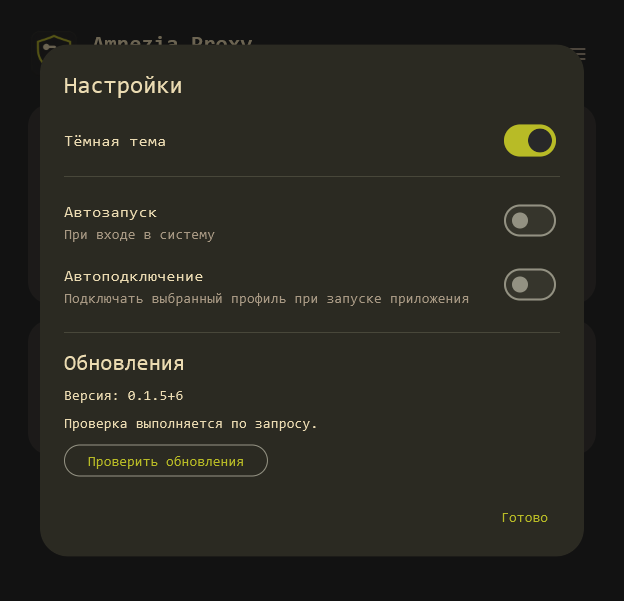
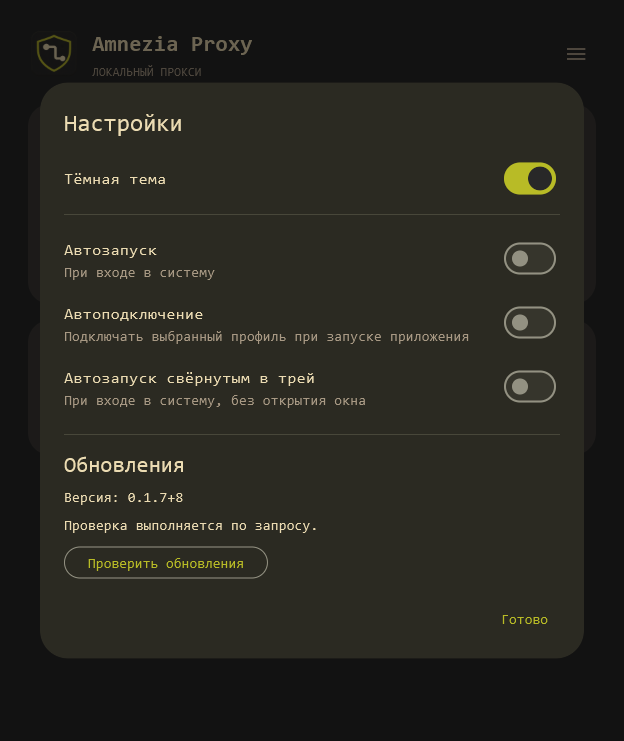
Проверить обновление автозапуска и обновить скриншот настроек

diff --git a/apps/desktop/lib/settings/startup_cubit.dart b/apps/desktop/lib/settings/startup_cubit.dart
@@ -67,7 +67,7 @@ class StartupCubit extends Cubit<StartupOptions> {
     _publish(busy: true);
     try {
       await _writeStartInTray(enabled);
-      _publish(autostart: enabled ? true : null, startInTray: enabled);
+      _publish(startInTray: enabled);
     } catch (_) {
       _publish(
         message: 'Не удалось настроить автозапуск в трей. Повторите попытку.',
@@ -88,6 +88,7 @@ class StartupCubit extends Cubit<StartupOptions> {
 
   Future<void> _enableAutostart() async {
     if (!await _command('enable')) throw const FormatException();
+    _publish(autostart: true, busy: true);
   }
 
   Future<void> setAutostart(bool enabled) async {

diff --git a/apps/desktop/tool/readme_main.dart b/apps/desktop/tool/readme_main.dart
@@ -26,7 +26,13 @@ class _DemoVault implements ProfileVault {
 }
 
 Future<void> main() async {
-  enableFlutterDriverExtension();
+  enableFlutterDriverExtension(
+    handler: (message) async {
+      final height = message == 'settings-window' ? 780.0 : 640.0;
+      await windowManager.setSize(Size(640, height));
+      return 'ok';
+    },
+  );
   // Изолируем демонстрационный запуск от настроек установленного приложения.
   // ignore: invalid_use_of_visible_for_testing_member
   SharedPreferences.setMockInitialValues({});

diff --git a/apps/desktop/tool/capture_readme.dart b/apps/desktop/tool/capture_readme.dart
@@ -51,9 +51,11 @@ Future<void> main(List<String> args) async {
     );
     await shot('09-profile-checked');
     await tap(find.text('Готово'));
+    await driver.requestData('settings-window');
     await section('Настройки');
     await shot('08-settings');
     await tap(find.text('Готово'));
+    await driver.requestData('default-window');
   } finally {
     await driver.close();
   }

diff --git a/engine/internal/autostart/autostart_windows_test.go b/engine/internal/autostart/autostart_windows_test.go
@@ -4,6 +4,7 @@ import (
 	"golang.org/x/sys/windows/registry"
 	"os"
 	"path/filepath"
+	"strings"
 	"testing"
 )
 
@@ -24,5 +25,23 @@ func TestWindowsRunKey(t *testing.T) {
 	}
 	if _, err := Apply("enable", "relative.exe"); err == nil {
 		t.Fatal("принят относительный путь")
+	}
+	key, _, err := registry.CreateKey(registry.CURRENT_USER, path, registry.ALL_ACCESS)
+	if err != nil {
+		t.Fatal(err)
+	}
+	defer key.Close()
+	if err := key.SetStringValue(valueName, `"`+binary+`"`); err != nil {
+		t.Fatal(err)
+	}
+	if enabled, err := runKey("status", binary, path, valueName); err != nil || !enabled {
+		t.Fatal("не распознана старая запись", err)
+	}
+	if _, err := runKey("enable", binary, path, valueName); err != nil {
+		t.Fatal(err)
+	}
+	command, _, err := key.GetStringValue(valueName)
+	if err != nil || !strings.HasSuffix(command, " --autostart") {
+		t.Fatal("нет признака автозапуска", err)
 	}
 }
